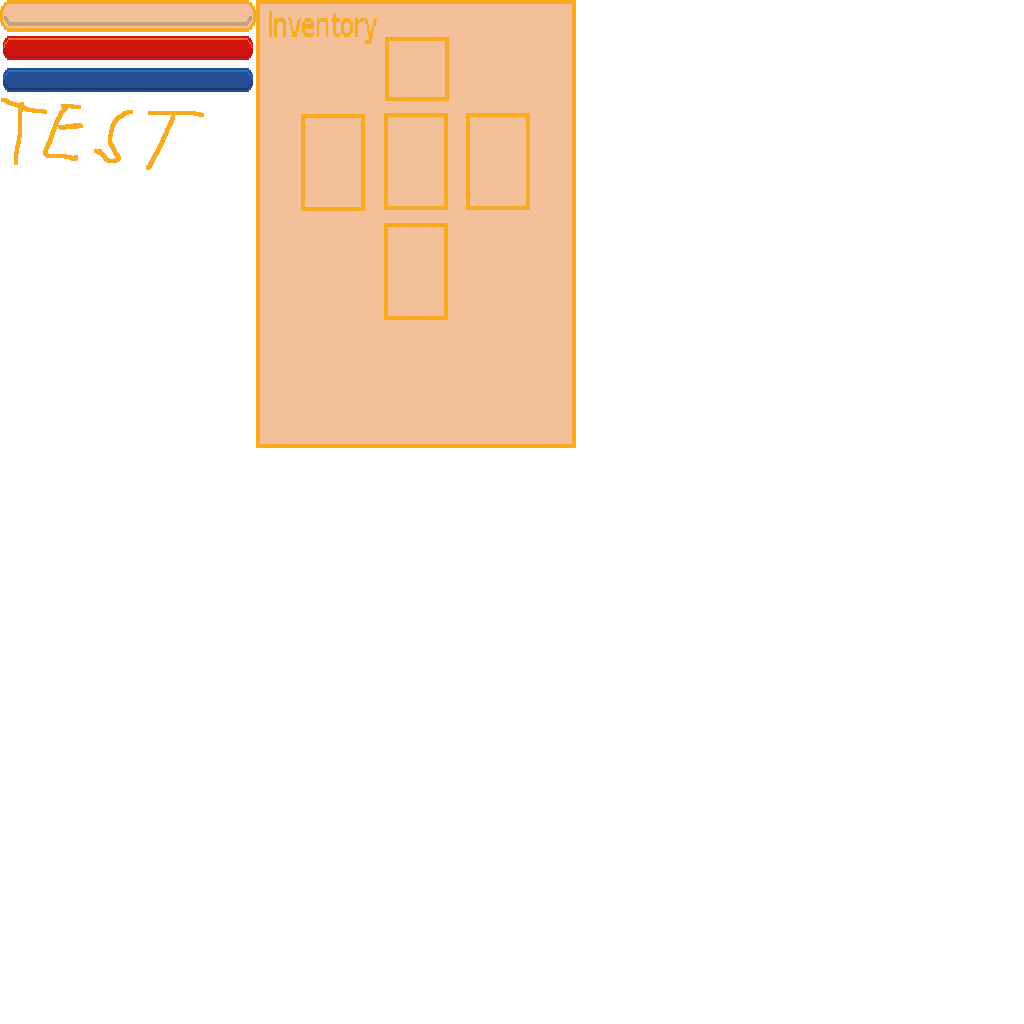
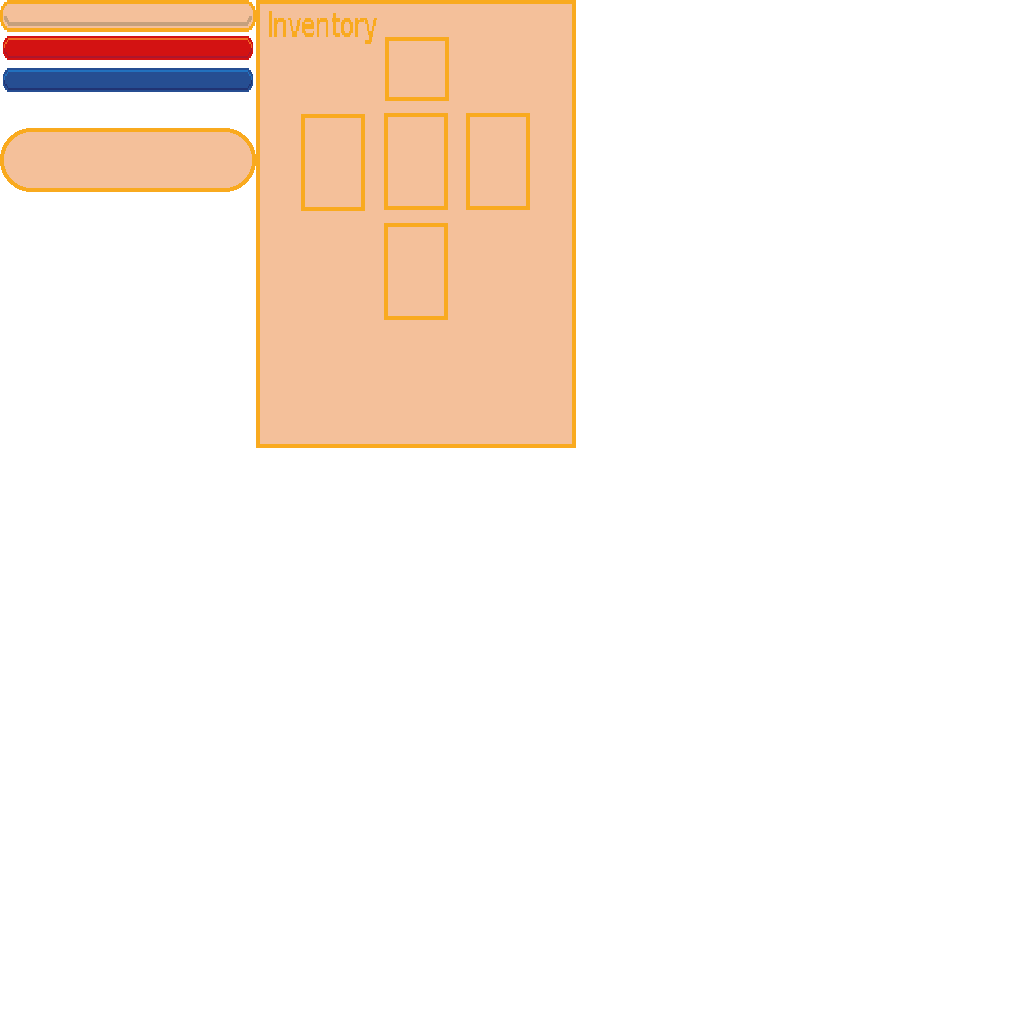
probs mit der game geschwindigkeit durch ständige leben und energie abfrage

Changed region(s): [[0.0, 0.0938, 0.25, 0.1875]]

diff --git a/code/ui.py b/code/ui.py
@@ -1,16 +1,16 @@
 import pygame
 from settings import * 
+from support import *
+from debug import debug
 
 class UI:
 	def __init__(self):
 		
 		# general 
-		self.display_surface = pygame.display.get_surface()
+		self.screen = pygame.display.get_surface()
 		self.font = pygame.font.Font(UI_FONT,UI_FONT_SIZE)
+		self.sheet = pygame.image.load(ss_ui).convert_alpha()
 
-		# bar setup 
-		self.health_bar_rect = pygame.Rect(10,10,HEALTH_BAR_WIDTH,BAR_HEIGHT)
-		self.energy_bar_rect = pygame.Rect(10,34,ENERGY_BAR_WIDTH,BAR_HEIGHT)
 
 		# convert weapon dictionary
 		self.weapon_graphics = []
@@ -25,38 +25,38 @@ class UI:
 			magic = pygame.image.load(magic['graphic']).convert_alpha()
 			self.magic_graphics.append(magic)
 
+	#show bar
+	def show_bars(self,current,ammount,x,y,dx,dy):
+		bg = get_sprite(0,0,256, 32,ss_ui)
 
-	def show_bar(self,current,max_amount,bg_rect,color):
-		# draw bg 
-		pygame.draw.rect(self.display_surface,UI_BG_COLOR,bg_rect)
-
-		# converting stat to pixel
-		ratio = current / max_amount
-		current_width = bg_rect.width * ratio
-		current_rect = bg_rect.copy()
-		current_rect.width = current_width
-
+		# converting stat to pixel 
+		ratio = current / ammount
+		width = 250 * ratio
+		bar = pygame.Surface([width, BAR_HEIGHT])
+		bar.blit(self.sheet, (0, 0), (x, y, width, BAR_HEIGHT))
+		bar.set_colorkey('black')
 		# drawing the bar
-		pygame.draw.rect(self.display_surface,color,current_rect)
-		pygame.draw.rect(self.display_surface,UI_BORDER_COLOR,bg_rect,3)
-
+		self.screen.blit(bg,(dx, dy))
+		self.screen.blit(bar,(dx+3, dy+4))
+ 
+	#show exp
 	def show_exp(self,exp):
 		text_surf = self.font.render(str(int(exp)),False,TEXT_COLOR)
-		x = self.display_surface.get_size()[0] - 20
-		y = self.display_surface.get_size()[1] - 20
+		x = self.screen.get_size()[0] - 20
+		y = self.screen.get_size()[1] - 20
 		text_rect = text_surf.get_rect(bottomright = (x,y))
 
-		pygame.draw.rect(self.display_surface,UI_BG_COLOR,text_rect.inflate(20,20))
-		self.display_surface.blit(text_surf,text_rect)
-		pygame.draw.rect(self.display_surface,UI_BORDER_COLOR,text_rect.inflate(20,20),3)
+		pygame.draw.rect(self.screen,UI_BG_COLOR,text_rect.inflate(20,20))
+		self.screen.blit(text_surf,text_rect)
+		pygame.draw.rect(self.screen,UI_BORDER_COLOR,text_rect.inflate(20,20),3)
 
 	def selection_box(self,left,top, has_switched):
 		bg_rect = pygame.Rect(left,top,ITEM_BOX_SIZE,ITEM_BOX_SIZE)
-		pygame.draw.rect(self.display_surface,UI_BG_COLOR,bg_rect)
+		pygame.draw.rect(self.screen,UI_BG_COLOR,bg_rect)
 		if has_switched:
-			pygame.draw.rect(self.display_surface,UI_BORDER_COLOR_ACTIVE,bg_rect,3)
+			pygame.draw.rect(self.screen,UI_BORDER_COLOR_ACTIVE,bg_rect,3)
 		else:
-			pygame.draw.rect(self.display_surface,UI_BORDER_COLOR,bg_rect,3)
+			pygame.draw.rect(self.screen,UI_BORDER_COLOR,bg_rect,3)
 		return bg_rect
 
 	def weapon_overlay(self,weapon_index,has_switched):
@@ -64,52 +64,21 @@ class UI:
 		weapon_surf = self.weapon_graphics[weapon_index]
 		weapon_rect = weapon_surf.get_rect(center = bg_rect.center)
 
-		self.display_surface.blit(weapon_surf,weapon_rect)
+		self.screen.blit(weapon_surf,weapon_rect)
 
 	def magic_overlay(self,magic_index,has_switched):
 		bg_rect = self.selection_box(80,635,has_switched)
 		magic_surf = self.magic_graphics[magic_index]
 		magic_rect = magic_surf.get_rect(center = bg_rect.center)
 
-		self.display_surface.blit(magic_surf,magic_rect)
-
+		self.screen.blit(magic_surf,magic_rect)
+	
+		# display ui
 	def display(self,player):
-		self.show_bar(player.health,player.stats['health'],self.health_bar_rect,HEALTH_COLOR)
-		self.show_bar(player.energy,player.stats['energy'],self.energy_bar_rect,ENERGY_COLOR)
+		self.show_bars(player.health,player.stats['health'],3,36,10,10)
+		self.show_bars(player.energy,player.stats['energy'],3,68,10,60)
 
 		self.show_exp(player.exp)
 
 		self.weapon_overlay(player.weapon_index,not player.can_switch_weapon)
 		self.magic_overlay(player.magic_index,not player.can_switch_magic)
-
-
-class Button:
-	def __init__(self, x, y, width, height, fg, bg, content, fontsize):
-		self.font = pygame.font.Font('graphics/font/Pixel.ttf', fontsize)
-		self.content = content
-
-		self.x = x
-		self.y = y
-		self.width = width
-		self.height = height
-
-		self.fg = fg
-		self.bg = bg
-
-		self.image = pygame.Surface((self.width, self.height))
-		self.image.fill(self.bg)
-		self.rect = self.image.get_rect()
-
-		self.rect.x = self.x
-		self.rect.y = self.y
-
-		self.text = self.font.render(self.content, True, self.fg)
-		self.text_rect = self.text.get_rect(center=(self.width / 2, self.height / 2))
-		self.image.blit(self.text, self.text_rect)
-
-	def is_pressed(self, pos, pressed):
-		if self.rect.collidepoint(pos):
-			if pressed[0]:
-				return True
-			return False
-		return False

diff --git a/code/main.py b/code/main.py
@@ -3,7 +3,6 @@ from settings import *
 from support import *
 from debug import debug
 from world import World
-from ui import Button
 
 class Game:
 	def __init__(self):
@@ -38,34 +37,35 @@ class Game:
 					sys.exit()
 
 			image_path = pygame.image.load('graphics/img/menu_background.png')
-			self.menu_background = pygame.transform.scale(image_path, (WIDTH,HEIGTH))
+			menu_background = pygame.transform.scale(image_path, (WIDTH,HEIGTH))
 			title = self.font.render('Main Menu', True, black)
-			title_rect = title.get_rect(x=10, y=10)
+			title_rect = title.get_rect(x=TILESIZE, y=10)
 
 			mouse_pos = pygame.mouse.get_pos()
 			mouse_pressed = pygame.mouse.get_pressed()
 
-			play_button = Button(50, 100, 250, 50, white, black, 'Start Game', 20)
-			load = button(0, 200, get_sprite(0,98,TILESIZE*4,TILESIZE,ss_ui))
-			options_button = Button(50, 300, 250, 50, white, black, 'Options', 20)
-			credits_button = Button(50, 400, 250, 50, white, black, 'Credits', 20)
-			exit_button = Button(50, 500, 250, 50, white, black, 'Exit Game', 20)
+			play = button(TILESIZE, TILESIZE*2, get_sprite(0,TILESIZE * 2,TILESIZE*4,TILESIZE,ss_ui),'Start Game')
+			load = button(TILESIZE, TILESIZE*4, get_sprite(0,TILESIZE * 2,TILESIZE*4,TILESIZE,ss_ui),'Save/Load')
+			exit = button(TILESIZE, TILESIZE*6, get_sprite(0,TILESIZE * 2,TILESIZE*4,TILESIZE,ss_ui),'Exit Game')
+
 			
-			if play_button.is_pressed(mouse_pos, mouse_pressed):
+			if is_pressed(mouse_pos, mouse_pressed, play[1]):
 				game.play()
 			if is_pressed(mouse_pos, mouse_pressed, load[1]):
 				print ('click')
-			if exit_button.is_pressed(mouse_pos, mouse_pressed):
+			if is_pressed(mouse_pos, mouse_pressed, exit[1]):
 				pygame.quit()
 				sys.exit()
-			
-			self.screen.blit(self.menu_background, (0, 0))
+
+			self.screen.blit(menu_background, (0, 0))
 			self.screen.blit(title, title_rect)
-			self.screen.blit(play_button.image, play_button.rect)
+			self.screen.blit(play[0], play[1])
+			self.screen.blit(play[2], play[3])
 			self.screen.blit(load[0], load[1])
-			self.screen.blit(options_button.image, options_button.rect)
-			self.screen.blit(credits_button.image, credits_button.rect)
-			self.screen.blit(exit_button.image, exit_button.rect)
+			self.screen.blit(load[2], load[3])
+			self.screen.blit(exit[0], exit[1])
+			self.screen.blit(exit[2], exit[3])
+
 			self.clock.tick(FPS)
 			pygame.display.update()
 
@@ -76,14 +76,15 @@ class Game:
 					pygame.quit()
 					sys.exit()
 
-				if event.type == pygame.KEYDOWN or  pygame.mouse.get_pressed()[0]:
+				if event.type == pygame.KEYDOWN or pygame.mouse.get_pressed()[0]:
 					game.menu()
 
 			self.screen.fill('white')
-			
-			sprite = get_sprite(0,0,TILESIZE * 4, TILESIZE / 2,ss_ui)
-			self.screen.blit(sprite,(10,10,TILESIZE * 4, TILESIZE / 2))
-			self.screen.blit(sprite,(10,50,TILESIZE * 4, TILESIZE / 2))
+
+			title = self.font.render('Press any key to continue', True, black)
+			title_rect = title.get_rect(x=TILESIZE, y=300)
+
+			self.screen.blit(title, title_rect)
 
 
 			pygame.display.update()

diff --git a/code/support.py b/code/support.py
@@ -1,6 +1,7 @@
 from csv import reader
 from os import walk
 import pygame
+from settings import *
 
 def import_csv_layout(path):
 	terrain_map = []
@@ -29,15 +30,23 @@ def get_sprite(x,y,width,height,path):
 
 	return sprite
 
-def button(x,y,sprite):
+def button(x,y,sprite,content):
 	button = []
 	rect = sprite.get_rect()
 	rect.x = x
 	rect.y = y
+	width = rect.width
+	height = rect.height
+
+	font = pygame.font.Font('graphics/font/Pixel.ttf', 20)
+	text = font.render(content, True, black)
+	text_rect = text.get_rect(center=(x + (width / 2), (height / 2) + y))
 
 	button.append(sprite)
 	button.append(rect)
-	
+	button.append(text)
+	button.append(text_rect)
+
 	return button
 
 def is_pressed(pos, pressed, rect):

diff --git a/code/settings.py b/code/settings.py
@@ -10,15 +10,13 @@ TILESIZE = 64
 ss_ui = 'graphics/player/ui.png'
 
 # ui 
-BAR_HEIGHT = 20
-HEALTH_BAR_WIDTH = 200
-ENERGY_BAR_WIDTH = 140
+BAR_HEIGHT = TILESIZE / 2 -8
+BAR_WIDTH = TILESIZE * 4 -6
 ITEM_BOX_SIZE = 80
 UI_FONT = 'graphics/font/joystix.ttf'
 UI_FONT_SIZE = 18
 
-menu_button = {'x':0,'y':98,'width':TILESIZE*4,'heigth':TILESIZE,'path':ss_ui}
-#menu_button = [0,98,TILESIZE*4,TILESIZE,ss_ui]
+
 # general colors
 WATER_COLOR = '#71ddee'
 UI_BG_COLOR = '#222222'

diff --git a/code/player.py b/code/player.py
@@ -39,7 +39,7 @@ class Player(Entity):
 		# stats
 		self.stats = {'health': 100,'energy':60,'attack': 10,'magic': 4,'speed': 5}
 		self.health = self.stats['health'] * 0.5
-		self.energy = self.stats['energy'] * 0.8
+		self.energy = self.stats['energy'] * 0.2
 		self.exp = 123
 		self.speed = self.stats['speed']
 

diff --git a/code/enemy.py b/code/enemy.py
@@ -36,7 +36,8 @@ class Enemy(Entity):
 		self.can_attack = True
 		self.attack_time = None
 		self.attack_cooldown = 400
-
+	
+	# import graphics
 	def import_graphics(self,name):
 		self.animations = {'idle':[],'move':[],'attack':[]}
 		main_path = f'graphics/monsters/{name}/'
